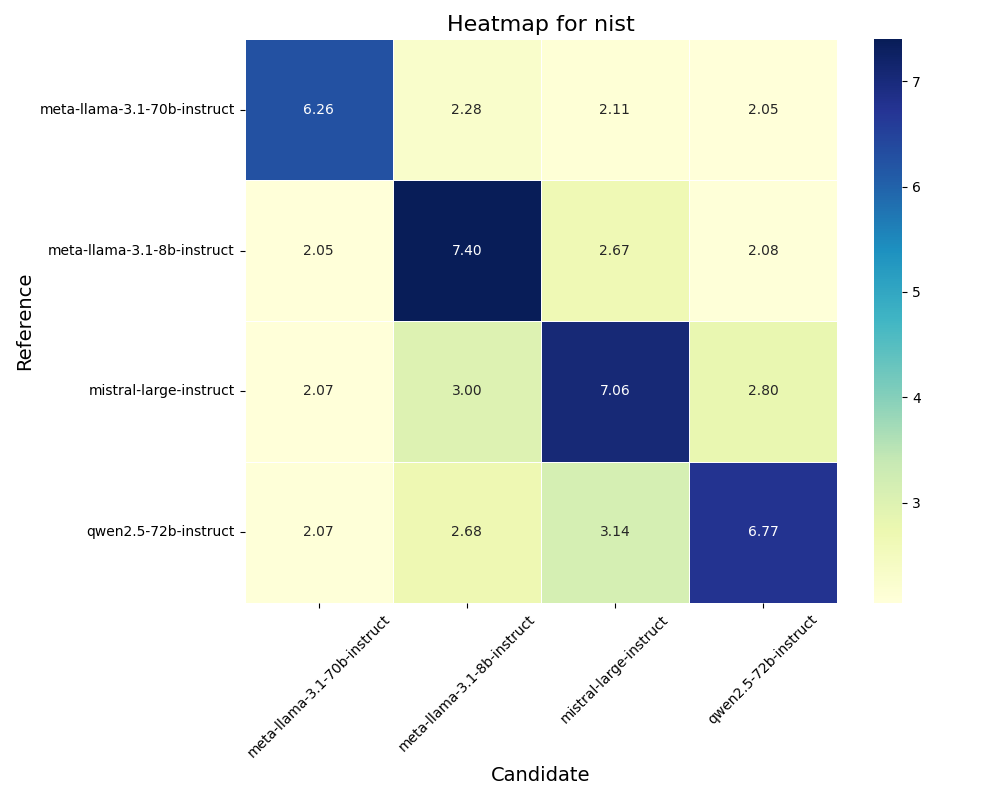
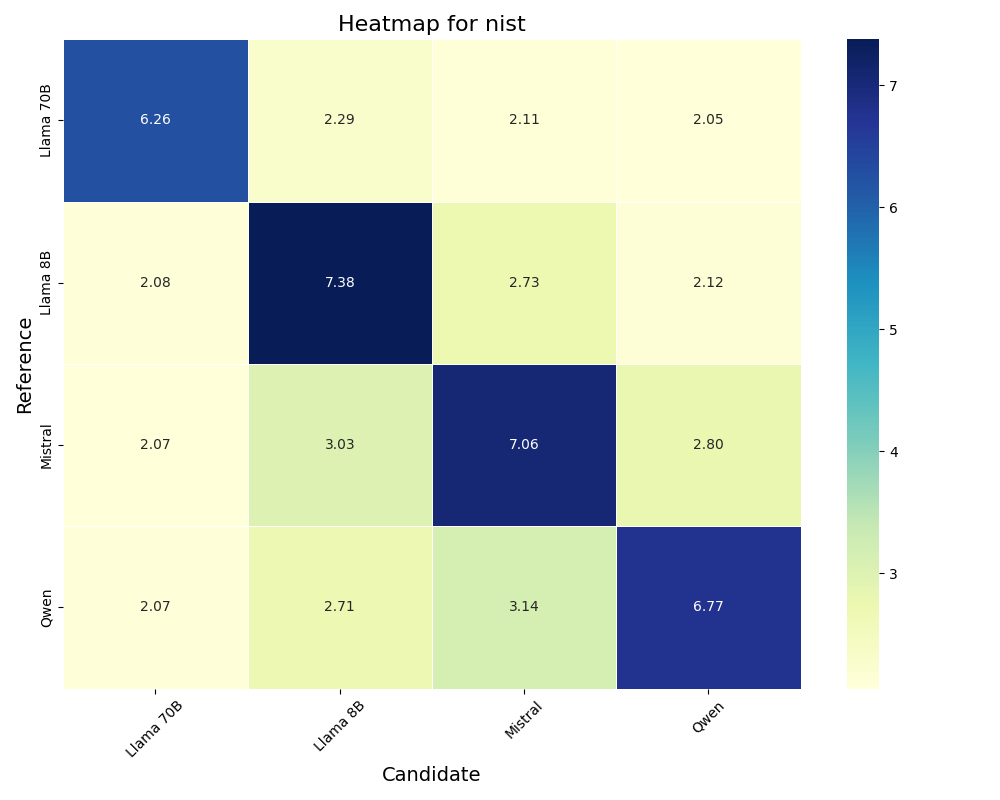
update quantitative evaluation

diff --git a/quantitive_eval_data_extraction.py b/quantitive_eval_data_extraction.py
@@ -5,7 +5,7 @@ import matplotlib.pyplot as plt
 
 
 METRICS = ["bertscoreF1", "moverscore", "wmd_specter", "wmd_scibert", "bleu", "rouge1F1", "rouge2F1", "rouge4F1", "rougeLF1", "nist", "meteor", "wer"]
-
+CONVERSION = {"meta-llama-3.1-70b-instruct": "Llama 70B", "meta-llama-3.1-8b-instruct": "Llama 8B", "mistral-large-instruct": "Mistral", "qwen2.5-72b-instruct": "Qwen" }
 
 def generate_table(file_path, start_i):
     df = pd.read_excel(file_path)
@@ -18,8 +18,8 @@ def generate_table(file_path, start_i):
         if metric == "wmd":
             metric += "_" + split_col[1]
             i += 1
-        reference = split_col[i]
-        candidate = split_col[i+1]
+        reference = CONVERSION[split_col[i]]
+        candidate = CONVERSION[split_col[i+1]]
 
         mean_dict[metric].append((reference, candidate, df[col].mean()))
 
@@ -36,15 +36,15 @@ def generate_table(file_path, start_i):
         plt.xlabel("Candidate", fontsize=14)
         plt.ylabel("Reference", fontsize=14)
         plt.tight_layout()
-        plt.savefig(f"data/plots/clean/{file_path.split("/")[-1].split("_")[0]}_{metric}.png")
+        plt.savefig(f"data/temp/clean_plots/{file_path.split("/")[-1].split("_")[0]}_{metric}.png")
         plt.close()
         # plt.show()
         
 
 
 def main():
-    generate_table("data/BioASQ_dataset_eval_clean.xlsx", 85)
-    generate_table("data/llm4syn_dataset_eval_clean.xlsx", 23)
+    generate_table("data/quantitative_eval_scores/BioASQ_dataset_quantitative.xlsx", 85)
+    generate_table("data/quantitative_eval_scores/ORKGSyn_dataset_quantitative.xlsx", 23)
 
 
 if __name__ == "__main__":
